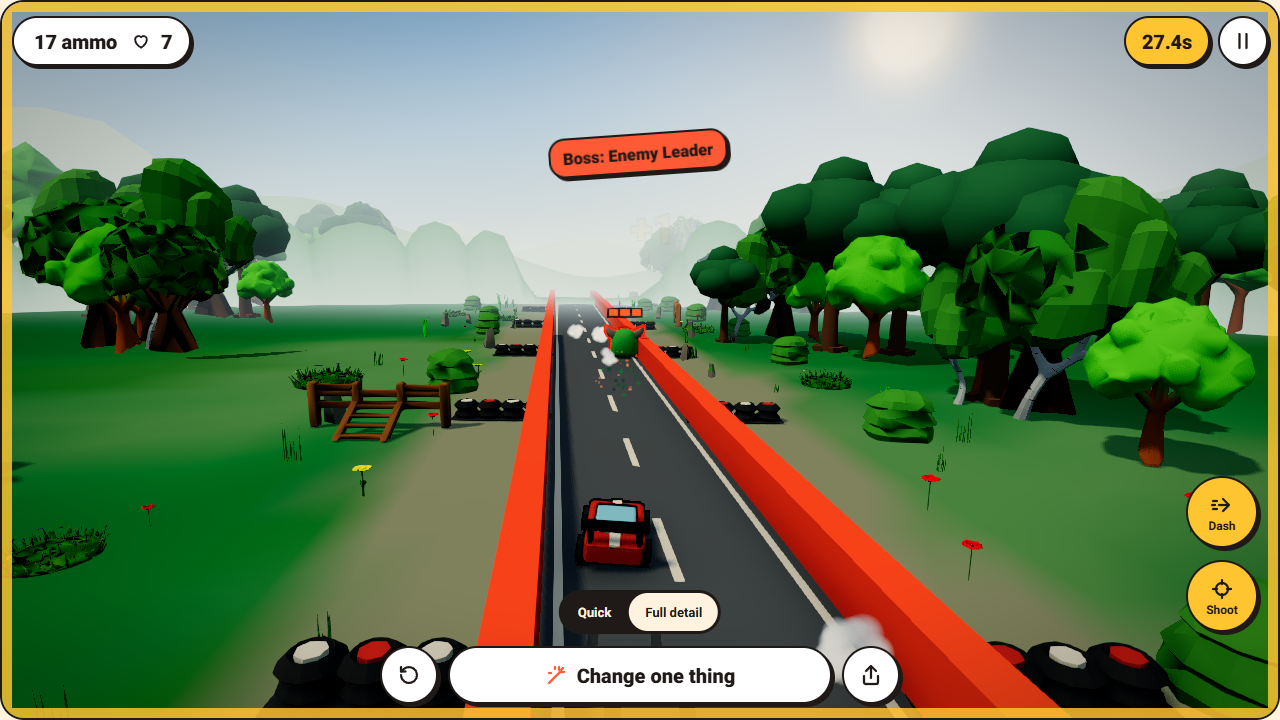
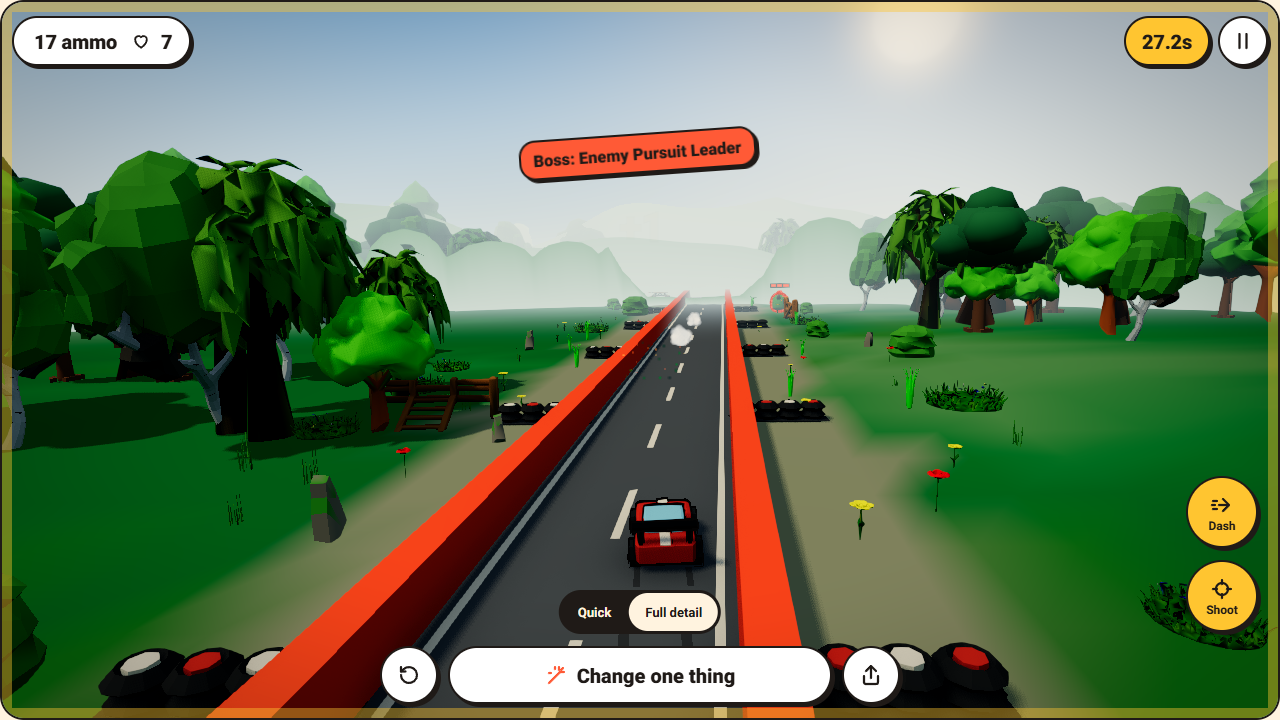
test(play): AI version live 9/10 after the graft and turbo fixes
Rerun on a fresh store: ready 9/10 (o02 quick version 422 on the fixed seed), adds 8/9, 0 lost rules or logic, max aiSec 148.3 s. Rabbit, car and hamster AI versions show their boss and the hero actions their world holds, no console errors. The spec now asks for the ability buttons the saved world carries instead of any button.

diff --git a/e2e/play-upgrade-live.spec.ts b/e2e/play-upgrade-live.spec.ts
@@ -36,6 +36,15 @@ interface HandProbe {
   tickByHand(): { readonly runState: string; readonly tick: number };
 }
 
+interface ControlPiece {
+  readonly id?: string;
+  readonly params?: { readonly base?: ControlPiece; readonly abilities?: { readonly ids?: readonly string[] } };
+}
+
+/** Akce hrdiny z obalů ovládání (`addon_control.params.abilities.ids`) po celé cestě k základnímu ovládání. */
+const abilitiesOf = (piece: ControlPiece | undefined): string[] =>
+  piece === undefined ? [] : [...(piece.params?.abilities?.ids ?? []), ...abilitiesOf(piece.params?.base)];
+
 const rows: readonly LiveRow[] = existsSync(LIVE) ? (JSON.parse(readFileSync(LIVE, 'utf8')) as { rows: LiveRow[] }).rows : [];
 const ready = (ids: readonly string[]): LiveRow | undefined => ids.map((id) => rows.find((row) => row.id === id)).find((row) => row?.status === 'ready');
 
@@ -109,9 +118,12 @@ test.describe('/play/[id] – AI versions made live by the director (P46E T6)', 
       await expect(stage).toBeVisible({ timeout: 60_000 });
       await page.waitForFunction(() => window.__playShell !== undefined, undefined, { timeout: 60_000 });
       const control = (await stage.getAttribute('data-control')) ?? '';
+      // Každá akce hrdiny, kterou uložený svět nese, má vidět své tlačítko. Hra bez akcí (křeček „escapes“ je jen
+      // běžec) tlačítko mít nemusí – rozhoduje svět ze serveru, ne odhad z věty.
+      const saved = (await (await page.request.get(`/api/play/games/${row!.aiUrl!.split('/').at(-1)!}`)).json()) as { arcade: { control: ControlPiece } };
+      for (const ability of abilitiesOf(saved.arcade.control)) await expect(page.getByTestId(`arcade-ability-${ability}`)).toBeVisible({ timeout: 30_000 });
       // Střelba (`arcade-fire`), akce věty (`arcade-<action>`) i akce hrdiny (`arcade-ability-*`) nesou `.play-fire`.
       const actions = page.locator('.play-fire');
-      await expect(actions.first()).toBeVisible({ timeout: 30_000 });
       const labels = await actions.evaluateAll((buttons) => buttons.map((button) => button.getAttribute('data-testid') ?? ''));
       await page.screenshot({ path: join(SHOTS, `${game.name}-start.png`) });
 
